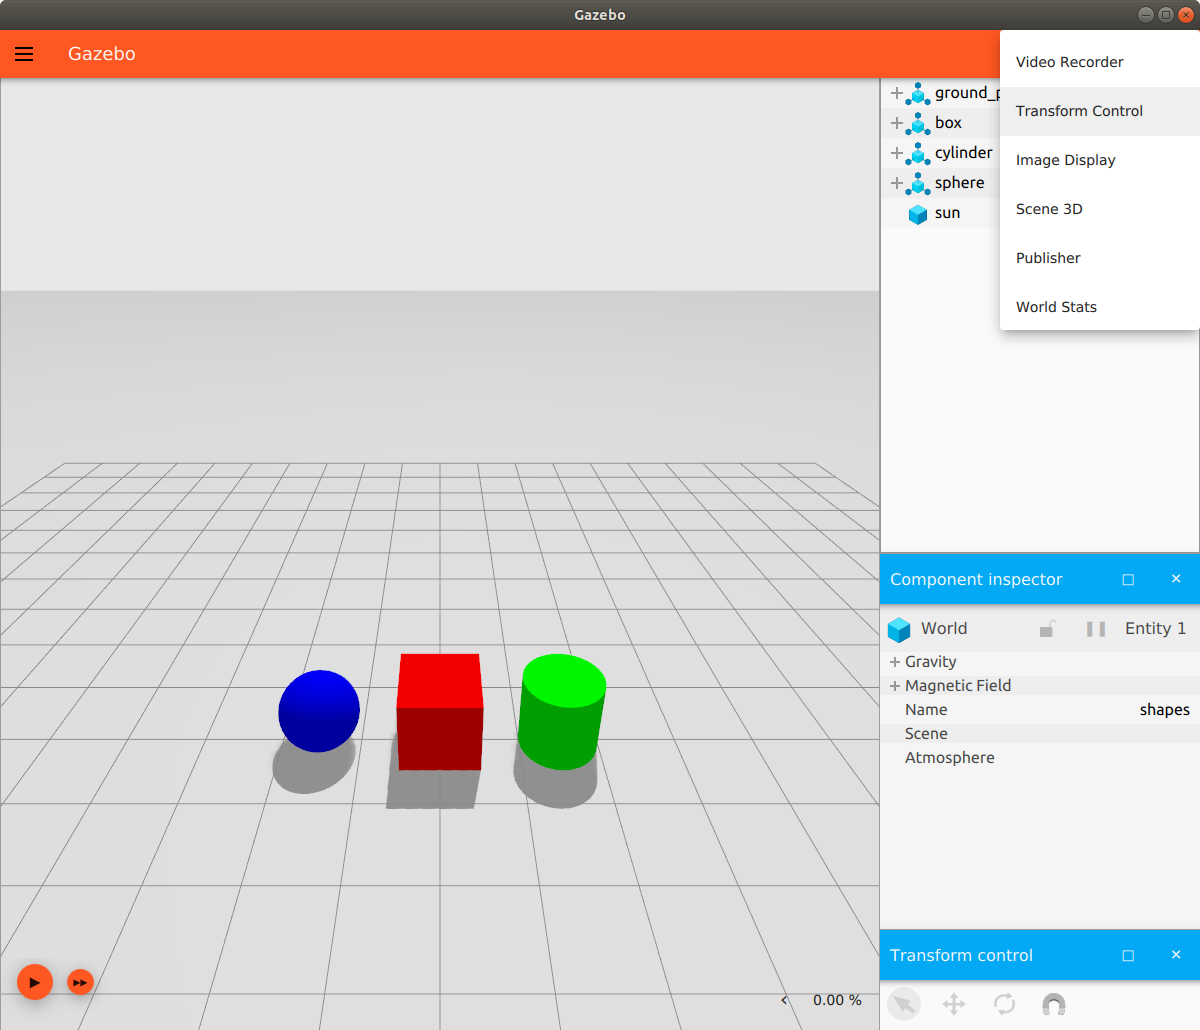
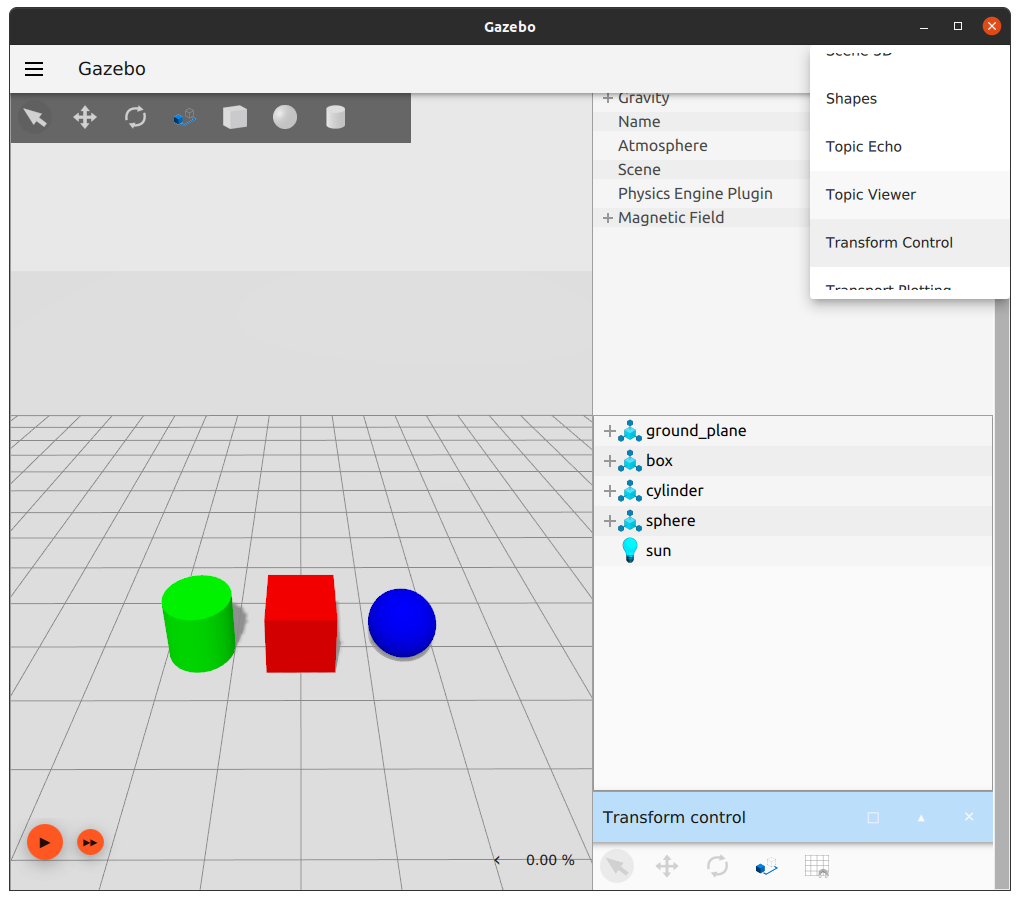
Updated images for Dome tutorials (#87)

diff --git a/dome/Manipulating_models.md b/dome/Manipulating_models.md
@@ -23,8 +23,9 @@ The previous tutorial, [Understanding the GUI](gui), explains the basics of navi
 
 ## Transform Control
 
-The `shapes.sdf` file contains the Transform Control plugin, which is why the plugin is already at the bottom of the screen when you start.
-If you wanted to use the plugin in a world where it isn't already included, you would open the plugin drop-down menu and select it from the list:
+The top left toolbar contains controls for transforming.
+Alternatively, the Transform Control plugin can be selected from the plugin drop-down menu.
+The plugin will then appear at the bottom of the right panel.
 
 ![Choosing Transform Control from the plugin list](img/plugins.png)
 
@@ -32,7 +33,7 @@ If you wanted to use the plugin in a world where it isn't already included, you 
 
 Selection is the default mode.
 You can click to select entities in the scene.
-A selected entity will be highlighted to indicate its selection.
+A selected entity will be highlighted in the Entity Tree to indicate its selection.
 You can select multiple entities by holding `Ctrl` and clicking.
 
 ![Selecting multiple entities](img/select_mult.png)
@@ -43,7 +44,7 @@ You can always return to selection mode from any other mode by pressing `Esc`.
 
 ### Translate Mode
 
-Enter into translate mode by clicking the second icon from the left in the Transform Control plugin, or by hitting the keyboard shortcut: `T`.
+Enter into translate mode by clicking the second icon from the left in the top left toolbar, the Transform Control plugin, or by hitting the keyboard shortcut: `T`.
 
 ![Translate mode icon](img/translate_icon.png)
 
@@ -59,7 +60,7 @@ Additionally, holding down any one of the `X`, `Y` or `Z` keys, or a combination
 
 ### Rotate Mode
 
-Enter into rotate mode by clicking the third icon from the left in the Transform Control plugin, or by hitting the keyboard shortcut: `R`.
+Enter into rotate mode by clicking the third icon from the left in the top left toolbar, the Transform Control plugin, or by hitting the keyboard shortcut: `R`.
 
 ![Rotate mode icon](img/rotate_icon.png)
 
@@ -93,7 +94,7 @@ Translational snaps will snap relative to the world frame, whereas rotational sn
 
 ![Snap rotation](img/snap.gif)
 
-You can customize snap values by clicking on the furthest-right magnet icon in the Transform Control plugin.
+You can customize snap values by clicking on the snap icon ![Snap icon](img/snap_icon.png) in the top left toolbar or the Transform Control plugin.
 
 ![Custom snap values](img/custom_snap.png)
 
@@ -101,7 +102,6 @@ Try holding `Shift` and `Ctrl` simultaneously to snap a model along the world fr
 
 ## Component Inspector
 
-The Component Inspector plugin is included in `shapes.sdf`.
 With this plugin, you can select an entity to display some of its attributes, including its pose, whether or not wind is acting on it, whether or not it's static, and more.
 The plugin also displays the gravitational and magnetic fields of your world.
 
@@ -118,7 +118,7 @@ Additionally, the Component Inspector can be locked on one object so you can ope
 
 ## View Angle
 
-The View Angle plugin does not come pre-loaded with `shapes.sdf`, so you will have to select it from the plugins button on the toolbar.
+Select the View Angle from the plugins drop-down menu.
 
 You can choose which angle you want to view the scene from, relative to a selected entity or the world frame if no entity is selected.
 The home button will return you to the original view pose from when the scene was loaded.
@@ -129,7 +129,7 @@ You can also select multiple entities to face simultaneously from each view angl
 
 ## Align Tool
 
-Like the View Angle plugin, the Align Tool is also not pre-loaded and will also have to be selected from the plugins button on the toolbar.
+Select the Align Tool from the plugins drop-down menu.
 
 The Align Tool aligns a model up with the center/origin of another model, or with something besides a model, like a link for example.
 It can't, however, align a link or anything other than the top-level model up with something else.

diff --git a/dome/GUI_tutorial.md b/dome/GUI_tutorial.md
@@ -51,8 +51,8 @@ When you select one, its interface will appear in the right panel.
 
 ### The Right Panel
 
-`shapes.sdf` contains three plugins that you see in the right panel upon starting.
-At the top is the Entity Tree, followed by the Component Inspector, and then Transform Control.
+The GUI contains two plugins that you see in the right panel upon starting.
+At the top is the Component Inspector, followed by the Entity Tree.
 
 Everything in a simulation is considered an "entity."
 In `shapes.sdf`, the entities listed are the ground plane, each of the shape models, and the sun.
